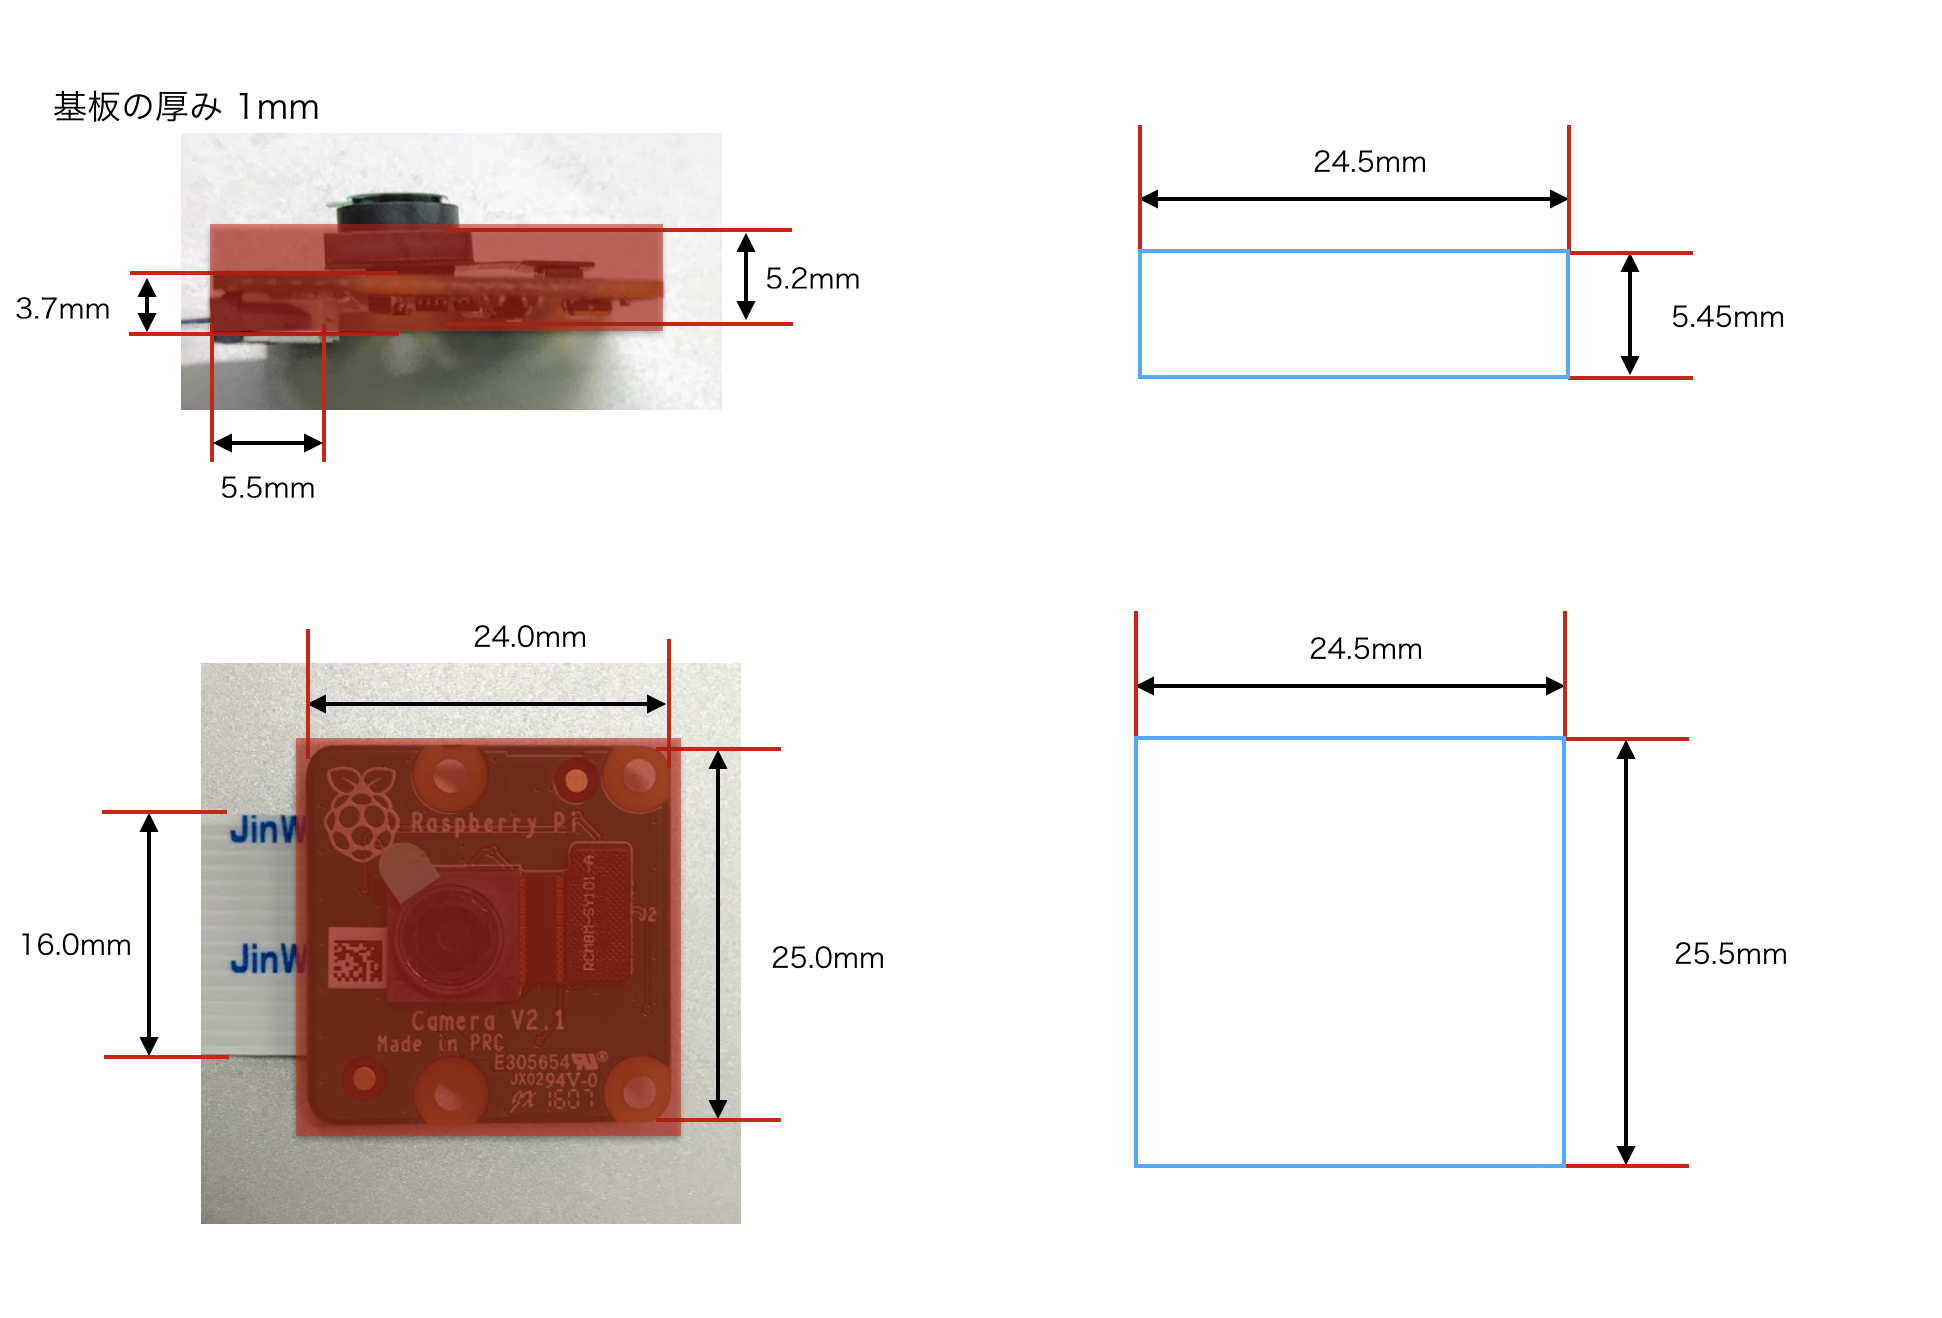
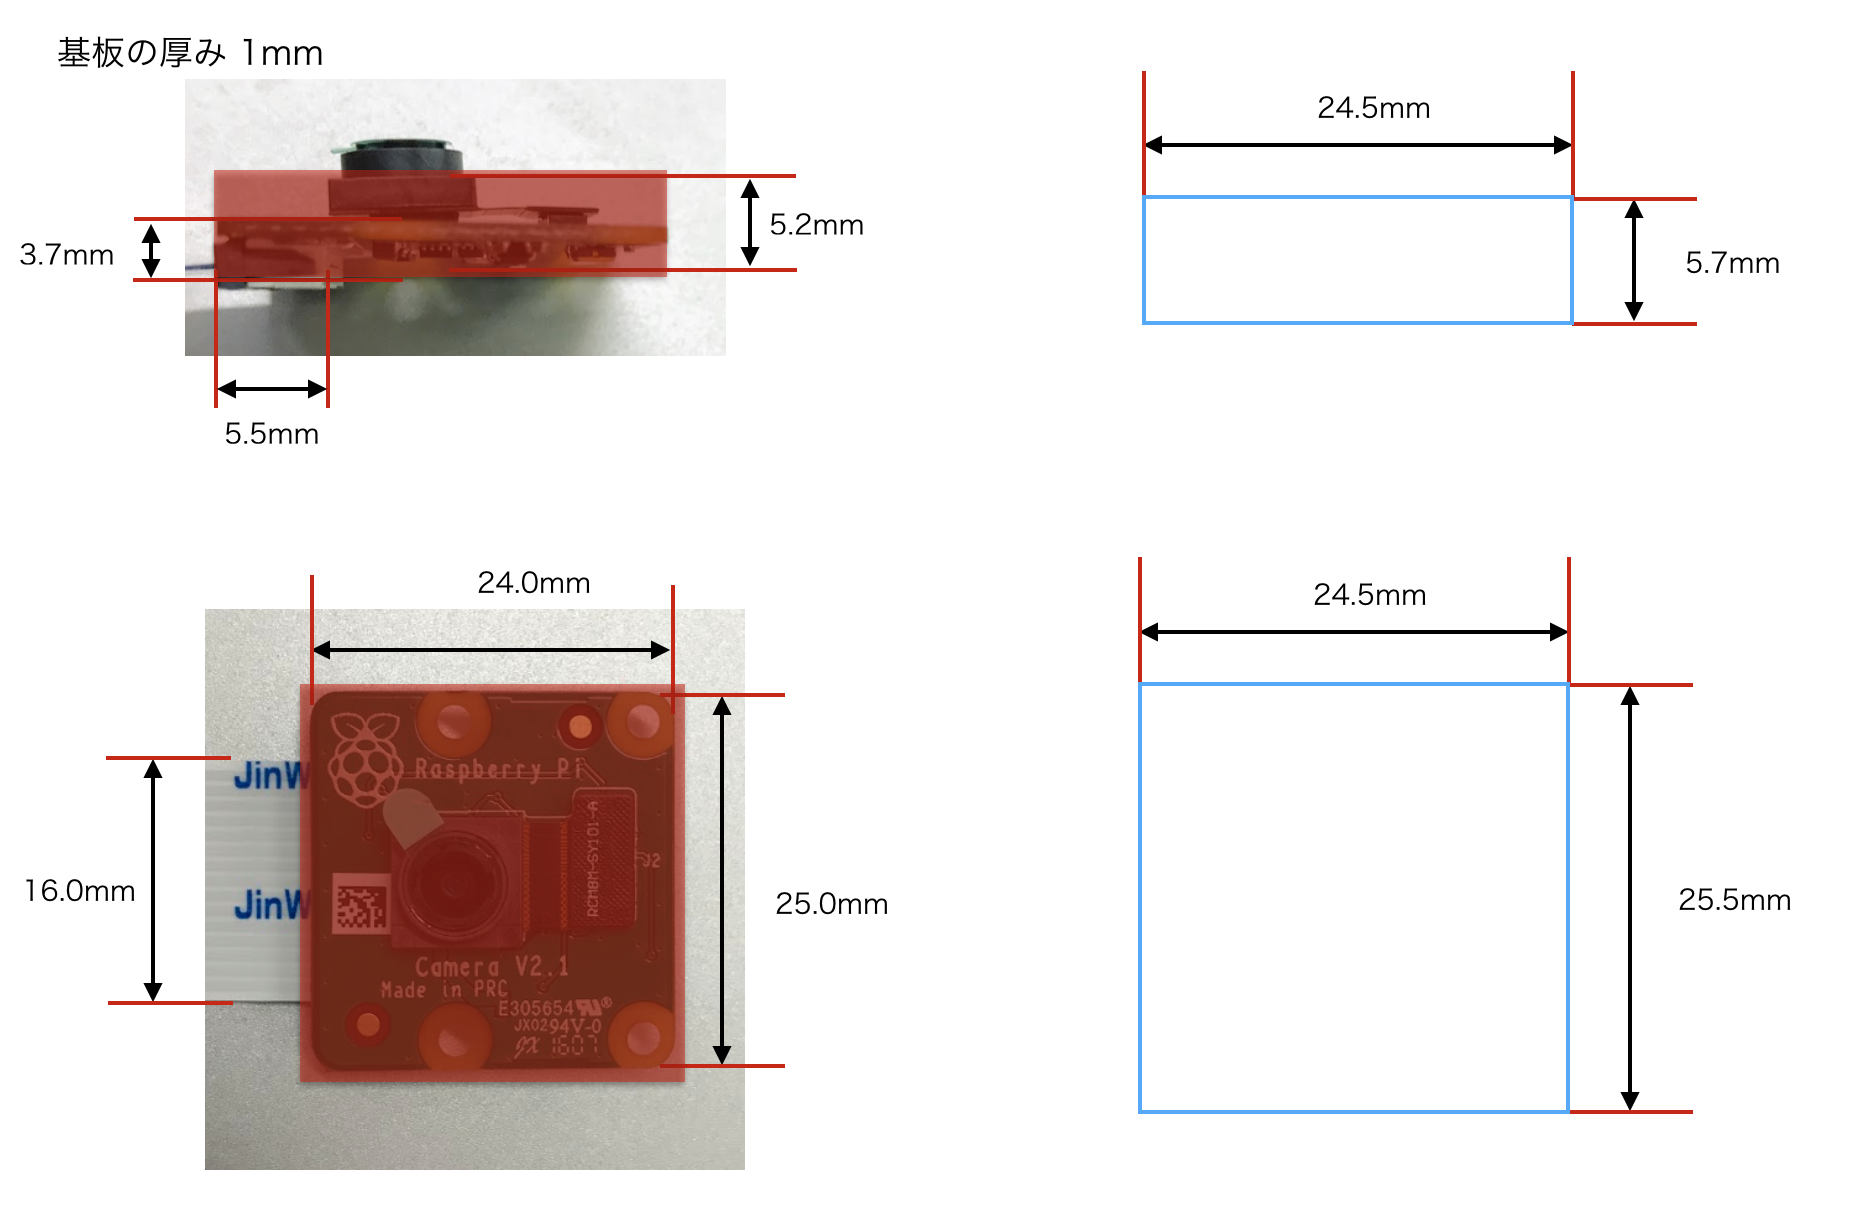
Update picamera.

diff --git a/dev/picamera1.md b/dev/picamera1.md
@@ -6,15 +6,15 @@
 
 ## カメラの土台の作成
 
-![](/img/pi100.png)
+![](/img/pi100_01.png)
 
-![](/img/pi100_2.png)
+![](/img/pi100_02.png)
 
-|XYZ|長さ|
+|長さ/幅/高さ|サイズ|
 |:--|:--|
-|x|
-|y|
-|z|
+|長さ| 25.5mm |
+|幅| 24.5mm |
+|高さ| 5.7mm|
 
 ![](/img/pi101.png)
 
@@ -34,7 +34,9 @@
 
 ## カメラのレンズ
 
-![](/img/pi200.png)
+![](/img/pi200_01.png)
+
+![](/img/pi200_02.png)
 
 ![](/img/pi201.png)
 
@@ -70,7 +72,9 @@
 
 ## ソケットの土台
 
-![](/img/pi300.png)
+![](/img/pi300_01.png)
+
+![](/img/pi200_02.png)
 
 ![](/img/pi301.png)
 
@@ -94,7 +98,9 @@
 
 ## ケーブルの出口の作成
 
-![](/img/pi400.png)
+![](/img/pi400_01.png)
+
+![](/img/pi400_02.png)
 
 ![](/img/pi401.png)
 
